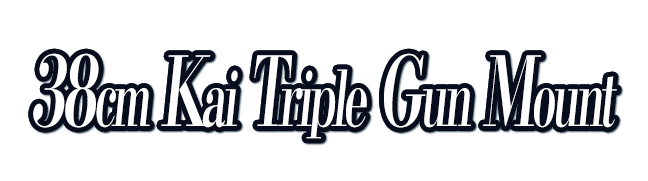
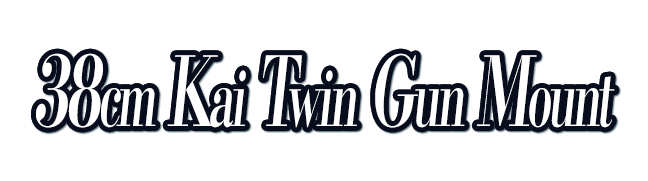
Update to v3.11.1
-== Raw Text Patching ==-
-- Updated --
- Equipment data
- Ship data
- Ship types

-- Added --
- Spring 2021 Event Extra Operation data

-- Fixed --
- Quest G9 description
- I-47, I-47 Kai and Tsushima wrong class in regex_ships
- Missing character to take into account in regex_map
- Typo on E-3's name

-== Texture Patching ==-
-- Updated --
- General equipment assets

-- Added --
- Spring 2021 Event Extra Operation assets
- New Striking Force assets
- Retreat prompt for the Torp. Squad FCF

-- Changed --
- Slight position adjustement for the "LBAS coming" and "Enemies Expected" cut-ins

-- Removed --
- Old "Third Group" texture from the Fall 2017 Event's Striking Force

-- Fixed --
- 38cm Kai Triple Gun Mount --> 38cm Kai Twin Gun Mount (battle cut-in)
- Typo on E-3's names
- Mamiya Food Supply's name in the item cards ("Food" and "Supply" were inverted)

Changed region(s): [[0.0309, 0.2486, 0.9877, 0.8011]]

diff --git a/README.md b/README.md
@@ -15,7 +15,7 @@ It also supports raw text patching, such as ship names, quests, flavor text etc.
 [Showcase in images](https://imgur.com/a/oAB9f7x) (Screenshots from v3.04-3.05)
 
 ##### How it works
-Unlike other patching methods like MITM or POI's "My Cache" folder,\
+Unlike other patching methods like MITM, POI's "My Cache" folder or ShimakazeGo's "Cache Mode hack",\
 KCCacheProxy compares the original sprites with the sprites in sprite sheets,\
 and injects the patched resources into these sprite sheets on the fly.\
 That means patches using this method will not break after updates to the game.\
@@ -45,24 +45,40 @@ and all the others in the Discord server for regularly suggesting\
 new things to fix or translate in the patch.
 
 ## Instructions
-You need KCCacheProxy set up to install this mod!
-Follow the guide below, or within the [English Patch Discord](https://discord.gg/krMeMKB), to set it up.\
-I recommend using Option B to use the patch, as it makes loading times instantly significantly faster.
+*(Please refer to the instructions in the #how-to-play-kc channel of the* *[Discord server](https://discord.gg/krMeMKB)* *instead if you're new to the game)*
+
+You need KCCacheProxy set up to install this mod!\
+Get into the Discord server, or follow this guide below to install it. I recommend going with Option B.\
 https://github.com/planetarian/KCDocumentation/blob/master/KCCacheProxy.md
 
-If you don't know how to use Git bash, download the master (green button, download the zip), and extract it anywhere.\
-*If you know how to use Git bash, clone the repository of the patch.*\
-To update, remove the patch from KCCacheProxy and repeat the entire process described here and below.
+##### Installation
+Once KCCacheProxy is set up, download the master (green button, download the zip), and extract it anywhere.\
+*If you're using Git, simply clone the repository of the patch on your computer using your preferred version of Git.*
 
-Use KCCacheProxy (right click in the tray) to add the mod by checking "Enable assets modifier",\
-saving, then clicking on "Add a patcher". From there, select the "EN-patch.mod.json" file inside of the master folder.\
-*To update, just pull and "Reload mod data" if you're using Git bash.*
+Use KCCacheProxy (right click in the task bar tray, bottom right) to add the mod\
+by checking "Enable assets modifier", saving, then clicking on "Add a patcher".\
+From there, select the "EN-patch.mod.json" file inside of the master folder.
 
-Don't forget to close KanColle and clear your browser cache for the first installation, and each time you want to update!\
+If you've downloaded the full cache dump, you can additionally click\
+on "Pre-patch ALL assets" to make the game faster.\
+Be sure to wait for everything to be done.
+
+*Cache Clear*\
+If it is running, close KanColle, and clear your browser's cache.\
 Be sure to select all time cache rather than last hour, and only select the relevant option.\
-*On Chrome, hit Ctrl+Shift+Del, choose "All time" on "Period", and in the "General" tab,*\
-*check __only__ "Images and files in cache", and delete.*\
-If some assets still aren't patched, repeat the process until satisfaction.
+*On Chrome, hit Ctrl+Shift+Del, choose "All time" on "Period", and in the "General" tab,\
+check **only** "Images and files in cache", and delete.*\
+If some assets still aren't patched, repeat the process until satisfaction. You're done!
 
-*To disable raw text patching (ship names etc.), open the "EN-patch.mod.json" file and*\
-*replace `"requireScripts": true,` with `"requireScripts": false,`. Don't forget to "Reload mod data"!*
+##### Updating
+Go into your English Patch folder, and double-click on "quick_updater_v0.2.1".\
+Let the program do its thing, then close it.\
+*If you're using Git, just pull from the repo.*
+
+Open KCCacheProxy (right click in the task bar tray, bottom right), click on "Reload mod data",\
+and clear your browser cache (see above for the cache clear instructions).
+
+##### Additional note
+*To disable raw text patching (ship names etc.), open the "EN-patch.mod.json" file\
+and replace `"requireScripts": true,` with `"requireScripts": false,`.\
+Don't forget to "Reload mod data"!*
